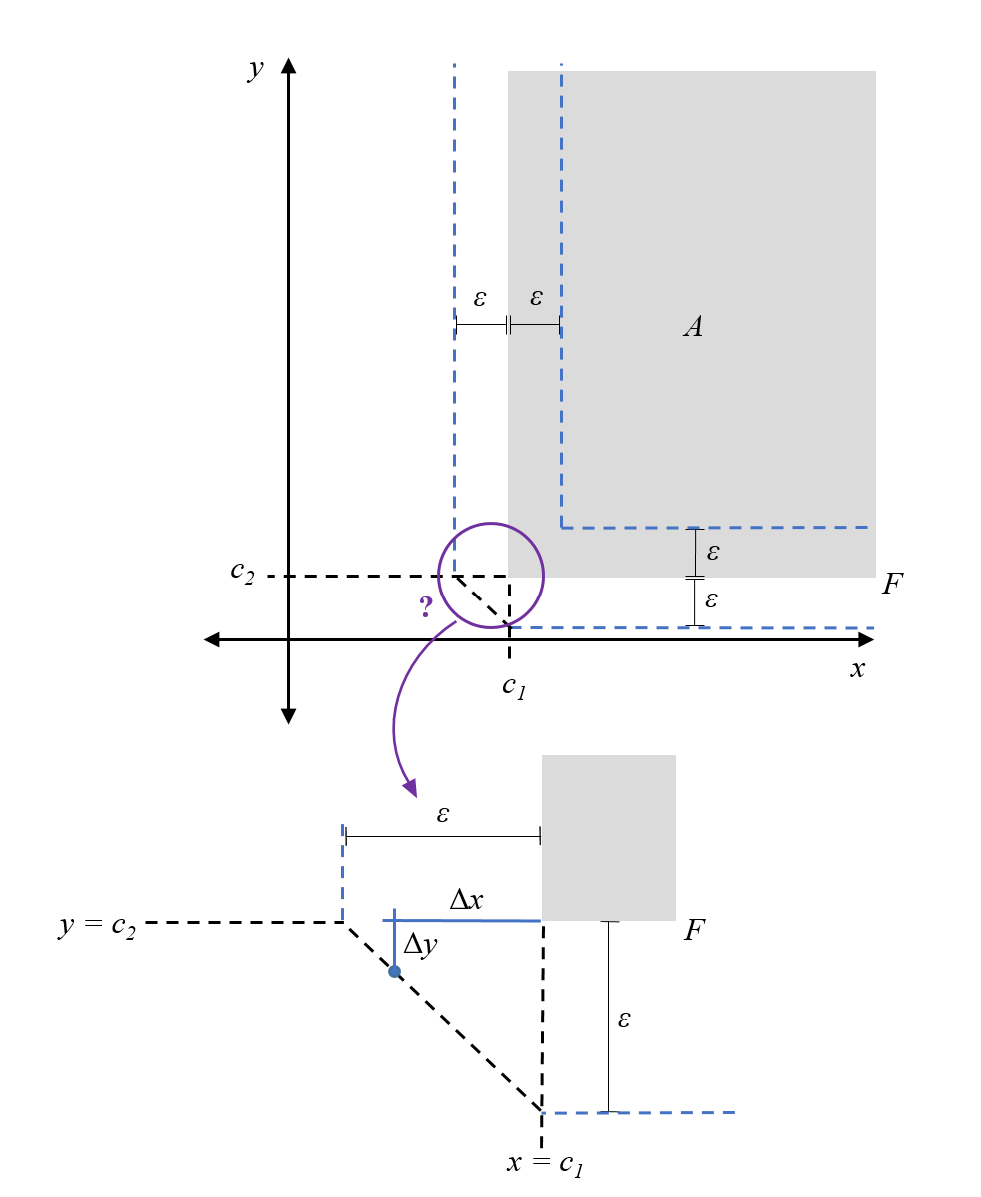
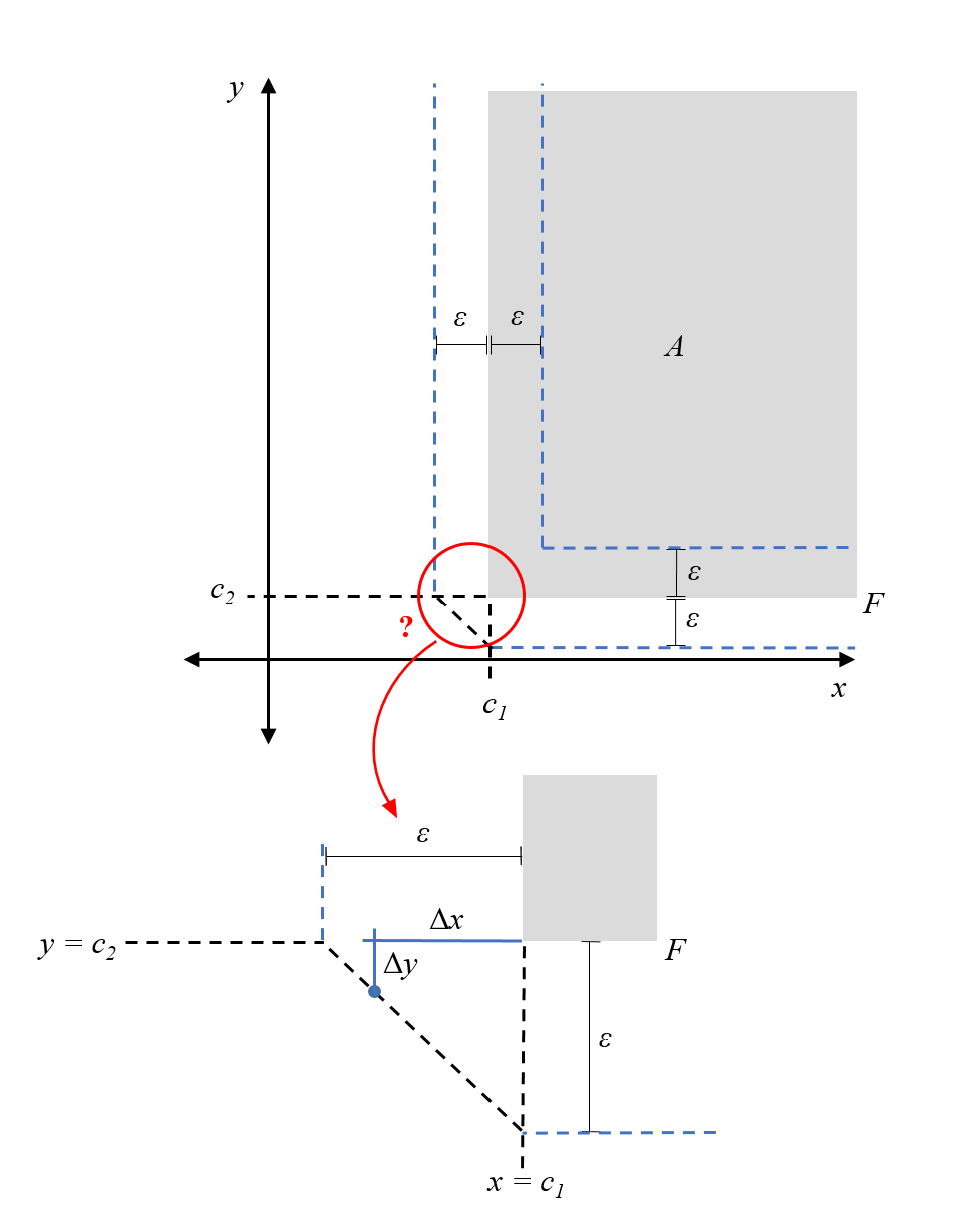
it is very important that article figure accent colors match the pkgdown site

diff --git a/docs/articles/distance-from-frontier.html b/docs/articles/distance-from-frontier.html
@@ -90,11 +90,11 @@
 <p><img src="figs/f2_digital.png" width="429"></p>
 <p>All the points on the blue dashed line are <span class="math inline">\(\varepsilon\)</span> away from the frontier F.</p>
 <p>But what happens at the corner of the frontier, where <em>both</em> <span class="math inline">\(x &lt; c_1\)</span> and <span class="math inline">\(y &lt; c_2\)</span>?</p>
-<p><img src="figs/f3_digital.png" width="425"></p>
+<p><img src="figs/f3_digital.png" width="395"></p>
 <p>Here, it helps if we focus on our problem specification. First, recall that <span class="math inline">\(x\)</span> and <span class="math inline">\(y\)</span> are independent of each other. This means that a change in one of these variables does not provoke a change in the other. For a subject, this translates to only being able to move in horizontal and vertical motions in this space of attributes, not diagonally. Thus, what we really mean when we say a subject is <span class="math inline">\(\varepsilon\)</span> away from the frontier, is that adding their horizontal and vertical distance from the frontier gives <span class="math inline">\(\varepsilon\)</span>.</p>
 <p>We also implicitly took the <em>minimum</em> distance to the frontier in the above cases; although we could calculate the distance between a point and <em>any</em> point on the frontier, we took the <em>closest</em> frontier point.</p>
 <p>Using these two ideas, we can now derive the points that are <span class="math inline">\(\varepsilon\)</span> from the frontier in the case where <em>both</em> <span class="math inline">\(x&lt;c_1\)</span> and <span class="math inline">\(y&lt;c_2\)</span> (we are below the assignment threshold in <em>both</em> variables). First, note that the closest frontier point that satisfies these conditions is the corner <span class="math inline">\((c_1, c_2)\)</span>. The points that are <span class="math inline">\(\varepsilon\)</span> away from the frontier corner, using our reasoning that subjects can only move horizontally and vertically, would be those whose difference in <span class="math inline">\(x\)</span>-coordinate, <span class="math inline">\(\Delta x = |x-c_1|\)</span>, and difference in <span class="math inline">\(y\)</span>-coordinate, <span class="math inline">\(\Delta y = |y-c_2|\)</span>, sums to <span class="math inline">\(\varepsilon\)</span>. Such points form a triangular buffer around the frontier corner:</p>
-<p><img src="figs/f4_digital.png" width="471"></p>
+<p><img src="figs/f4_digital.png" width="468"></p>
 <p>Formally, this is the <span class="math inline">\(l_1\)</span>-metric to the frontier, where the distance between a point <span class="math inline">\(p = (p_x,p_y)\)</span> and a set, <span class="math inline">\(A\)</span>, is abstractly defined as <span class="math display">\[\begin{align}
 l_1(p,A) &amp;= \min_{a=(a_x,a_y) \in A} \{ l_1(p,a)\} \\
 &amp;= \min_{a=(a_x,a_y) \in A} \{|p_x-a_x|+|p_y-a_y|\}.
